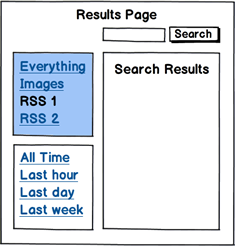
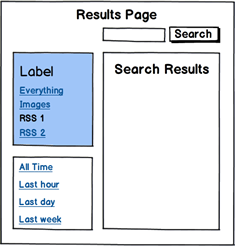
[Fixes #27180683] Layout issue on Admin Center sidebar page
- fix layout on Sidebar, Best Bets
- update layout on "URL and Sitemaps" to use the whole page
- update image on Sidebar page to add Label

Changed region(s): [[0.0298, 0.2276, 0.417, 0.939]]

diff --git a/app/stylesheets/new_main.sass b/app/stylesheets/new_main.sass
@@ -444,6 +444,7 @@ a
 
 * html
   .outer-container
+    margin: 0
     width: 1080px
   .content .container
     width: 790px
@@ -851,13 +852,9 @@ table.generic-table
       font-weight: normal
     #add_another_link
       float: right
-    .by-source, .by-time-period
-      margin-bottom: 20px
-      h2
-        +inline-block
-      .sidebar-subsection
-        +clearfix
-        margin-bottom: 10px
+    .left-nav-label, .by-source, .by-time-period
+      +clearfix
+      margin-bottom: 10px
     img.side-note
       float: right
       margin-left: 10px
@@ -1103,7 +1100,7 @@ h3.api-item
         :background url(/images/backgrounds/bg_blue_gradient.gif) repeat-x 0 0
         :color white
 
-.boosted-content-list
+.boosted-contents .boosted-content-list
   clear: both
 
 .crawled-url-list, .uncrawled-url-list
